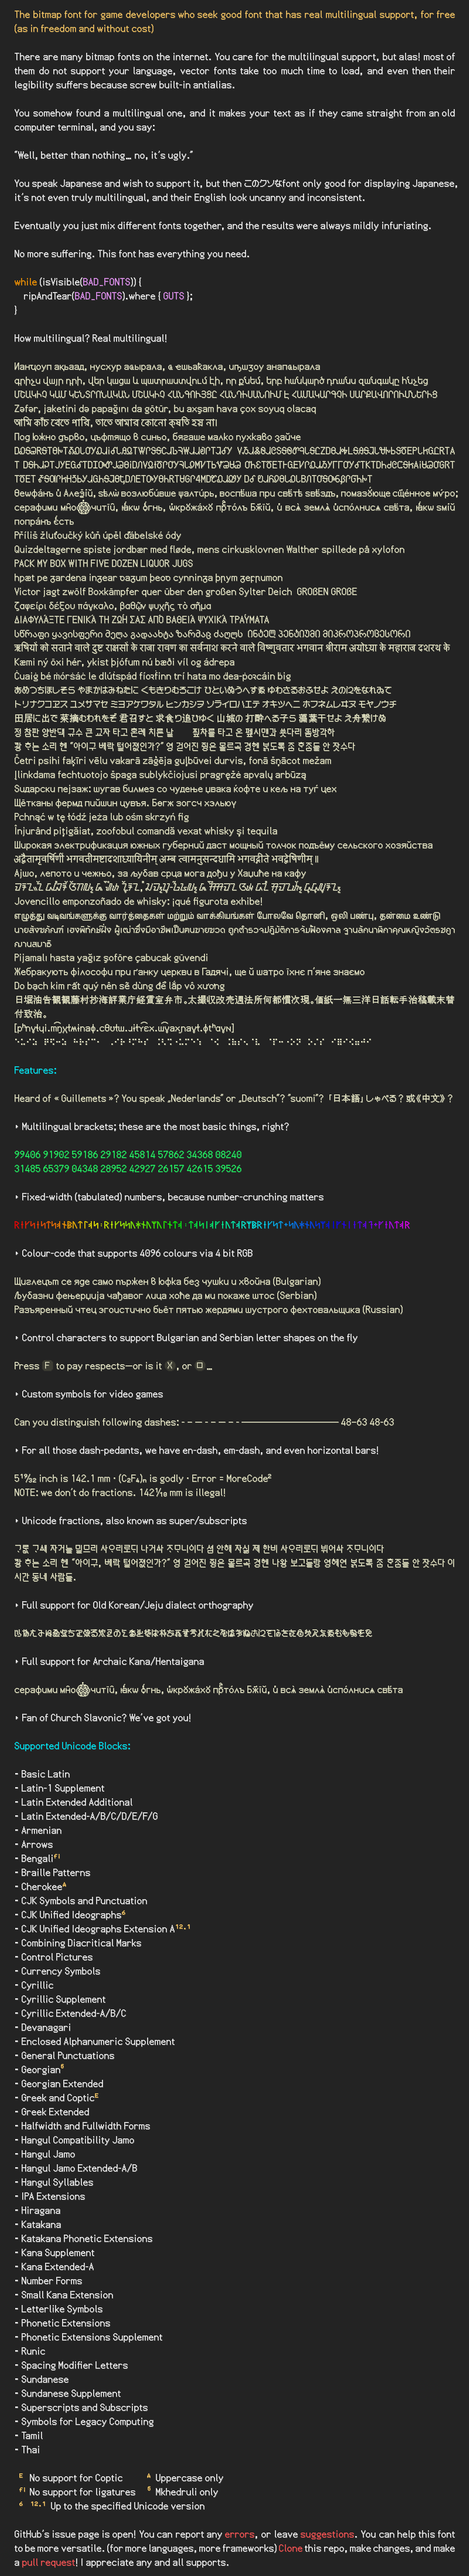
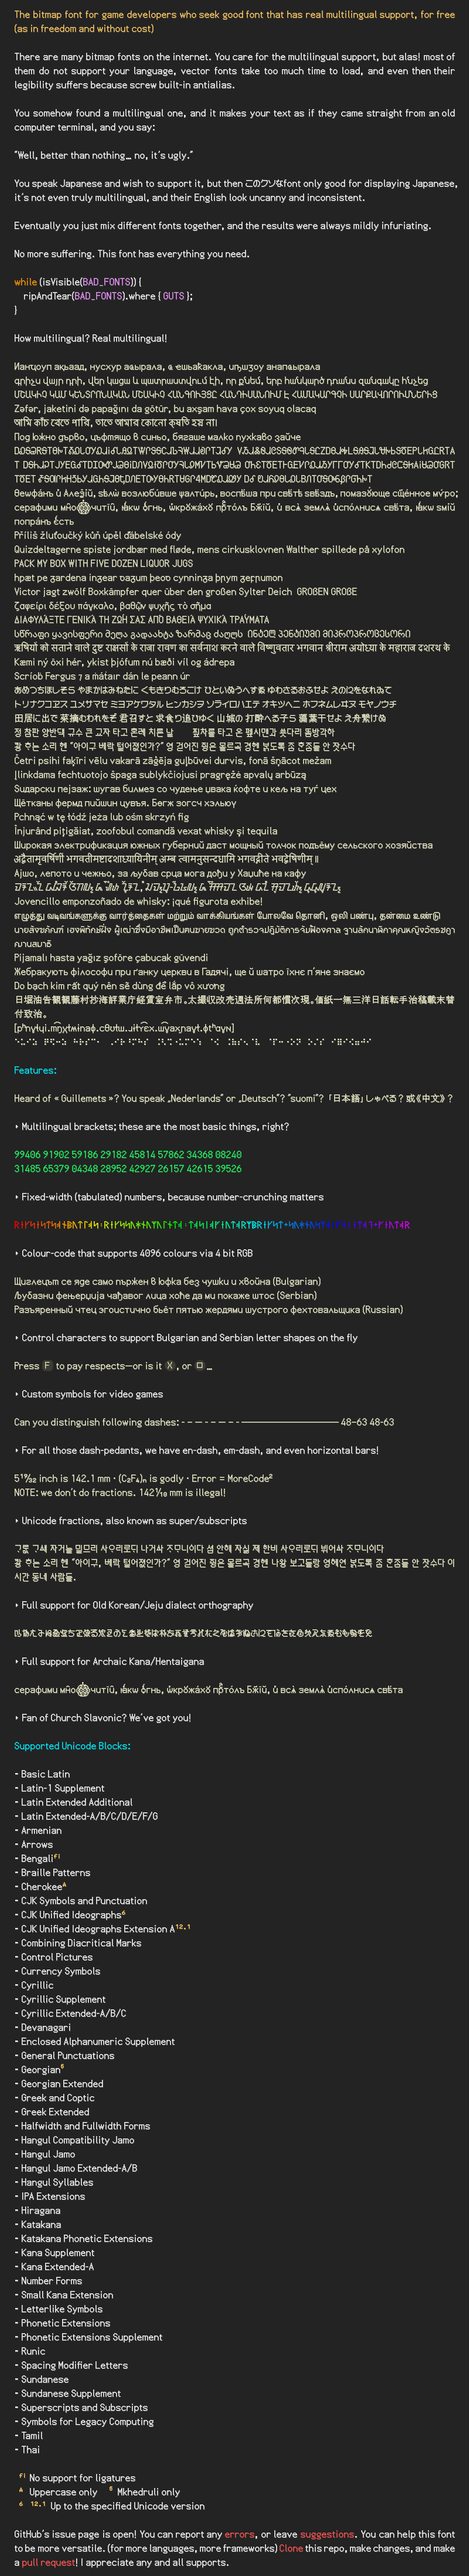
added missing glyphs in Greek and Coptic block

diff --git a/keming_calculator.html b/keming_calculator.html
@@ -579,15 +579,15 @@ const EXAMPLES = [
     { zones: 'BDFGH',     wye: false, chars: '\u027A',     desc: 'BDFGH' },
     { zones: 'BG',        wye: true,  chars: '/',          desc: 'BG(Y)' },
     { zones: 'CD',        wye: false, chars: '\u10B5',     desc: 'CD' },
-    { zones: 'CDEF',      wye: true,  chars: '\u03A6',     desc: 'CDEF(Y)' },
-    { zones: 'CDEFGH',    wye: false, chars: 'a,c,e',     desc: 'CDEFGH' },
+    { zones: 'CDEF',      wye: true,  chars: '\u03A6,v',     desc: 'CDEF(Y)' },
+    { zones: 'CDEFGH',    wye: false, chars: 'a,e',     desc: 'CDEFGH' },
     { zones: 'CDEFGHJK',  wye: false, chars: 'g',          desc: 'CDEFGHJK' },
     { zones: 'CDEFGHK',   wye: false, chars: '\u019E',     desc: 'CDEFGHK' },
+    { zones: 'CDEFGH',    wye: true,  chars: 'A',          desc: 'CDEFGH(Y)' },
+    { zones: 'CDEGH',     wye: false,  chars: 'c',          desc: 'CDEGH' },
     { zones: 'AB',        wye: true,  chars: 'Y',          desc: 'AB(Y)' },
     { zones: 'ABCD',      wye: true,  chars: 'V',          desc: 'ABCD(Y)' },
-    { zones: 'CDEF',      wye: true,  chars: 'v',          desc: 'CDEF(Y)' },
     { zones: 'EFGH',      wye: true,  chars: '\u028C',     desc: 'EFGH(Y)' },
-    { zones: 'CDEFGH',    wye: true,  chars: 'A',          desc: 'CDEFGH(Y)' },
 ];
 
 function buildExamples() {

diff --git a/src/net/torvald/terrarumsansbitmap/gdx/TerrarumSansBitmap.kt b/src/net/torvald/terrarumsansbitmap/gdx/TerrarumSansBitmap.kt
@@ -2697,7 +2697,7 @@ class TerrarumSansBitmap(
             0x400..0x52F, // SHEET_CYRILIC_VARW
             0xFF00..0xFFFF, // SHEET_HALFWIDTH_FULLWIDTH_VARW
             0x2000..0x209F, // SHEET_UNI_PUNCT_VARW
-            0x370..0x3CE, // SHEET_GREEK_VARW
+            0x370..0x3FF, // SHEET_GREEK_VARW
             0xE00..0xE5F, // SHEET_THAI_VARW
             0x530..0x58F, // SHEET_HAYEREN_VARW
             0x10D0..0x10FF, // SHEET_KARTULI_VARW

diff --git a/OTFbuild/sheet_config.py b/OTFbuild/sheet_config.py
@@ -143,7 +143,7 @@ CODE_RANGE = [
     list(range(0x400, 0x530)),                                                      # 7: Cyrillic
     list(range(0xFF00, 0x10000)),                                                   # 8: Halfwidth/Fullwidth
     list(range(0x2000, 0x20A0)),                                                    # 9: Uni Punct
-    list(range(0x370, 0x3CF)),                                                      # 10: Greek
+    list(range(0x370, 0x400)),                                                      # 10: Greek
     list(range(0xE00, 0xE60)),                                                      # 11: Thai
     list(range(0x530, 0x590)),                                                      # 12: Armenian
     list(range(0x10D0, 0x1100)),                                                    # 13: Georgian
